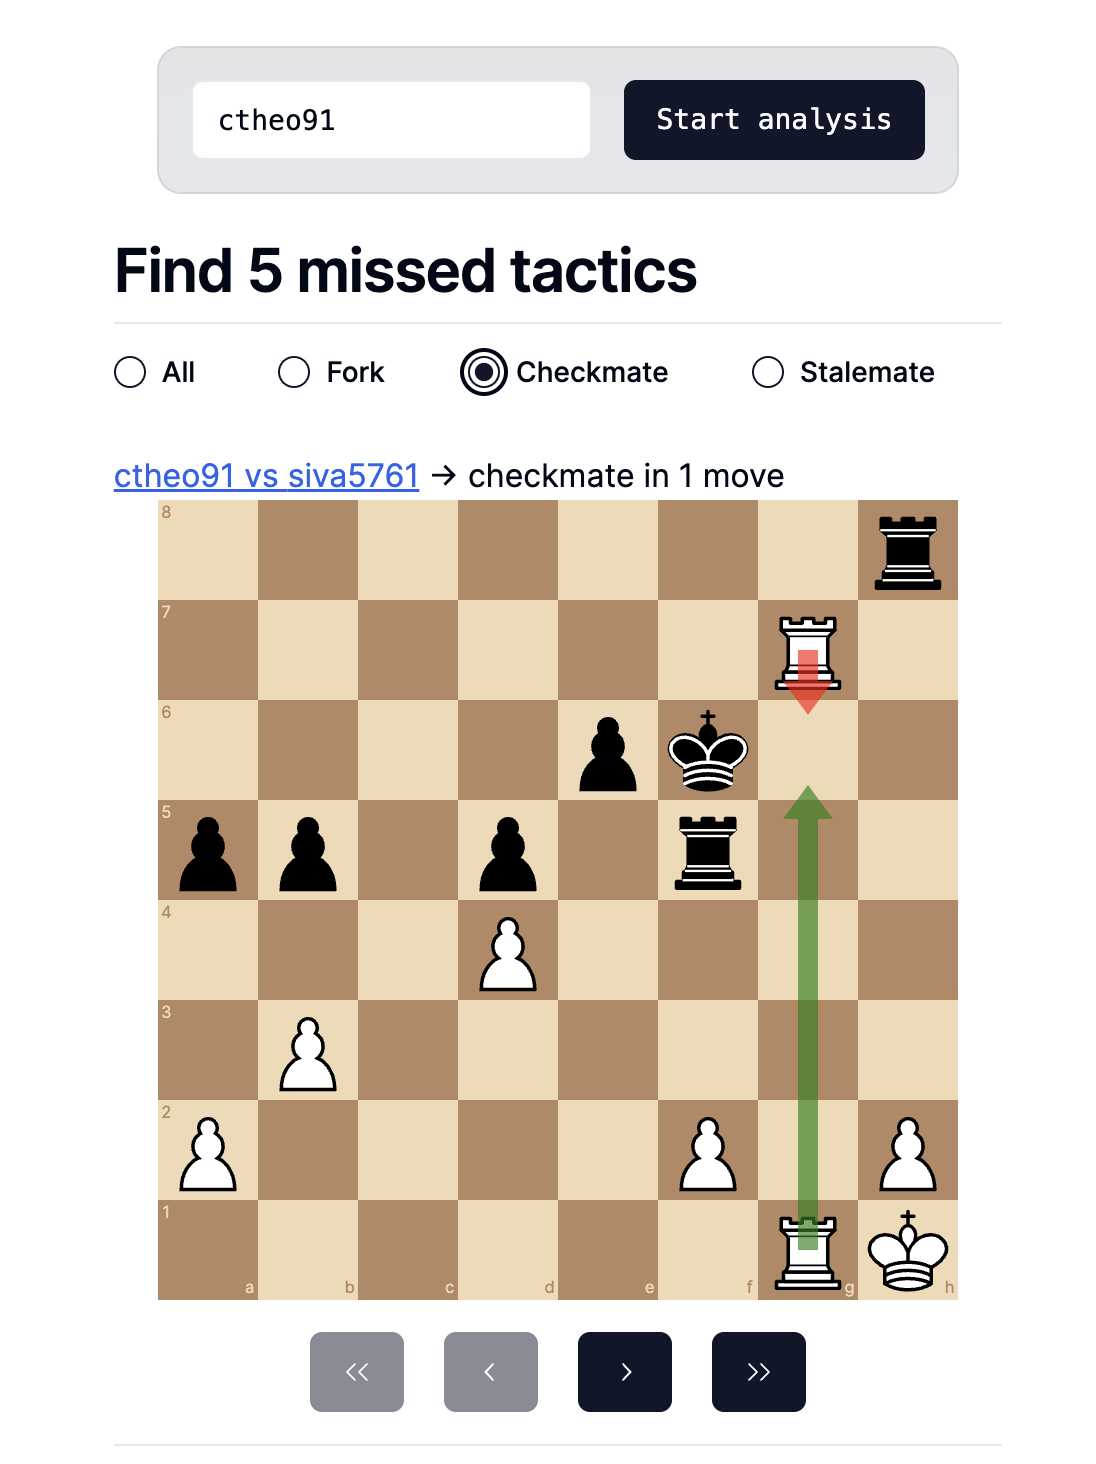
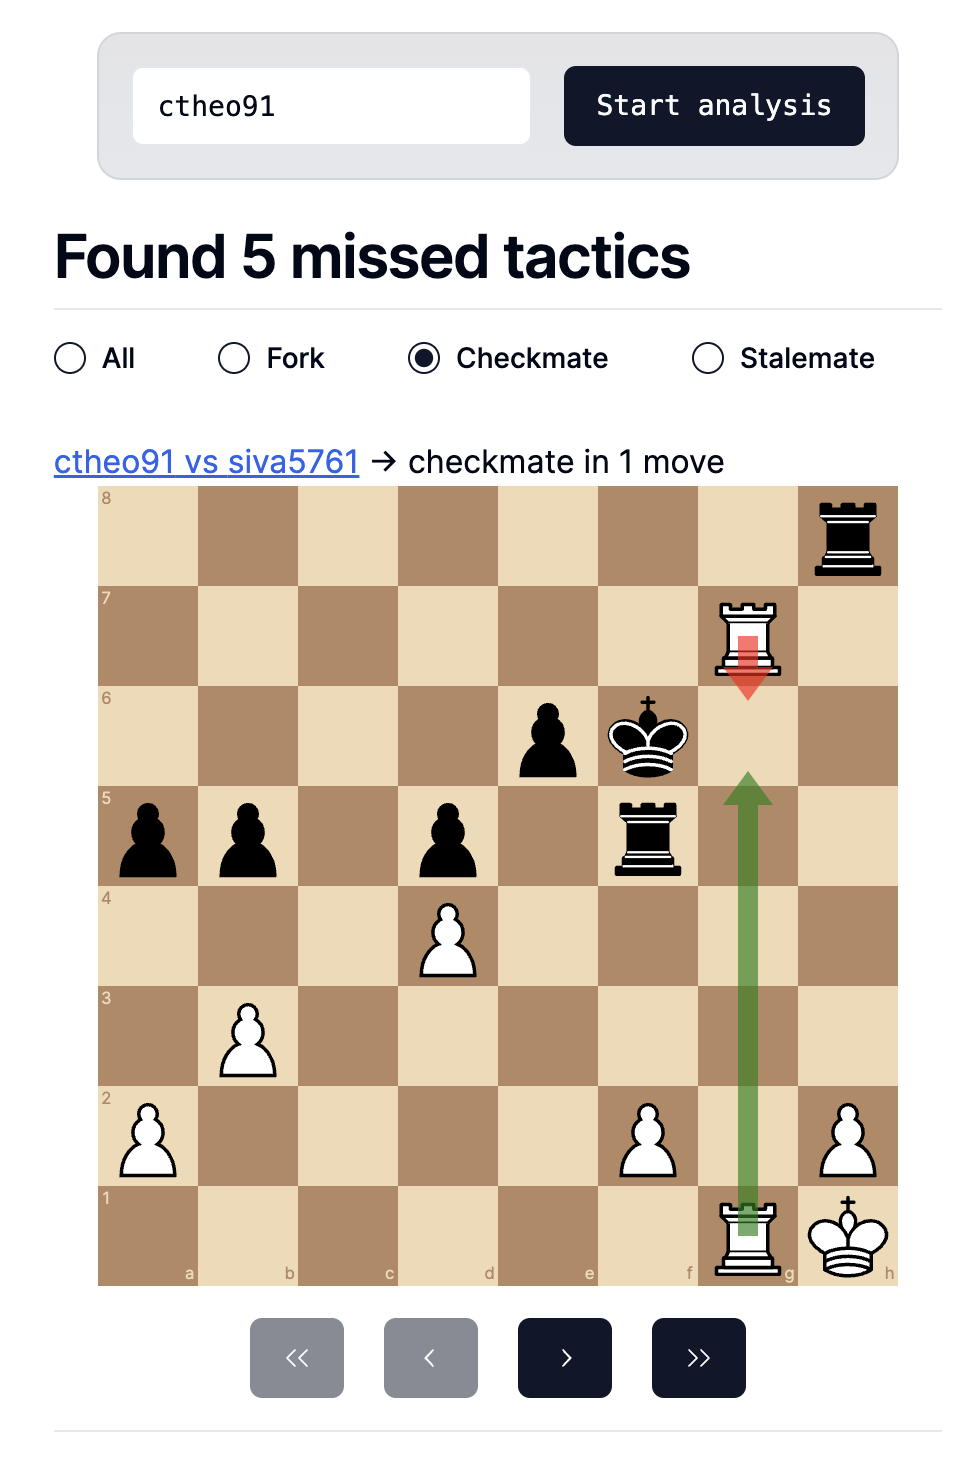
:lipstick: Update example image

diff --git a/app/src/app/page.tsx b/app/src/app/page.tsx
@@ -65,7 +65,7 @@ export default function Home() {
         </div>}
         {missedTactics.length > 0 && <div className="mt-8">
            <h2 className="scroll-m-20 border-b pb-2 text-3xl font-semibold tracking-tight first:mt-0">
-            Find {filterTactics.length} missed tactics
+            Found {filterTactics.length} missed tactics
           </h2>
 
           <RadioGroup value={filter} className="grid-flow-col mt-4 mb-8" orientation="horizontal" onValueChange={(value) => setFilter(value)}>
